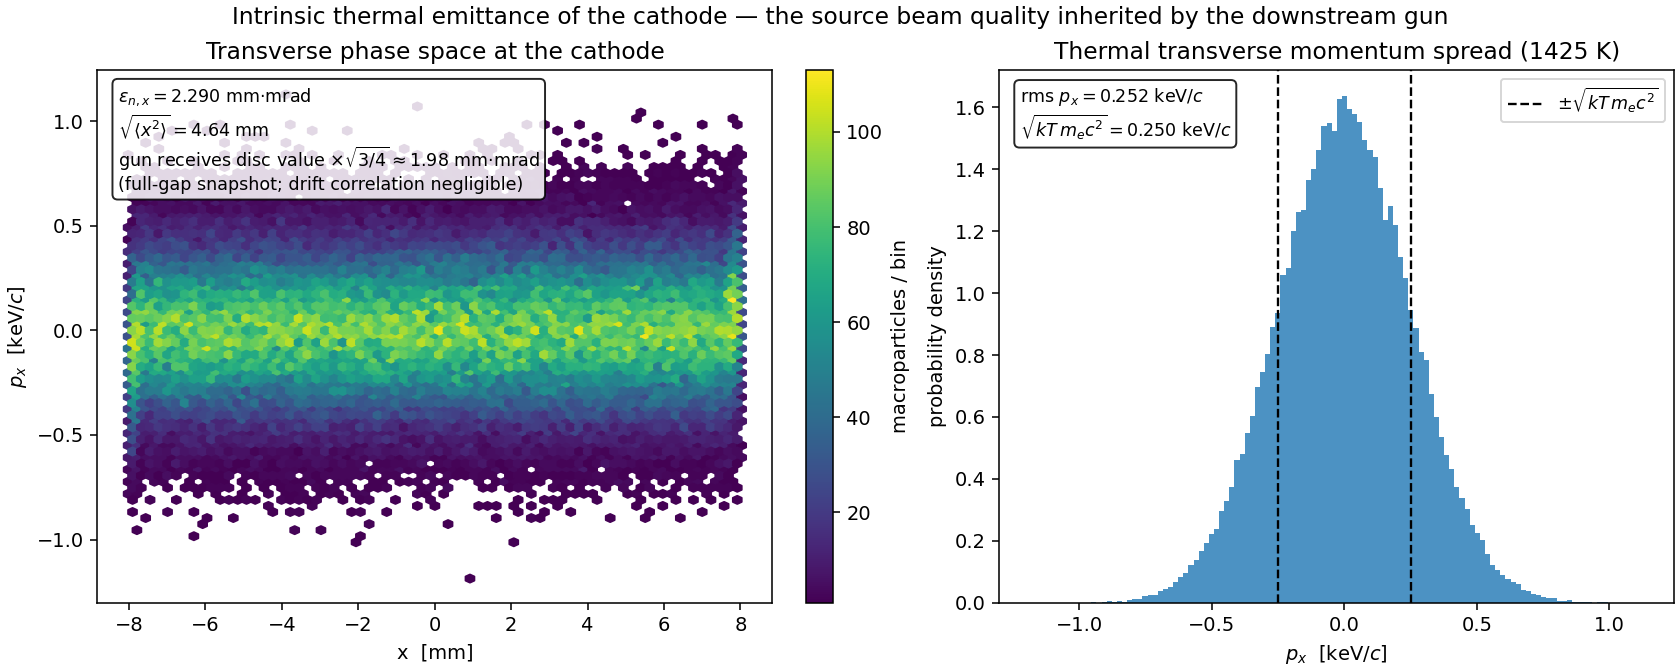
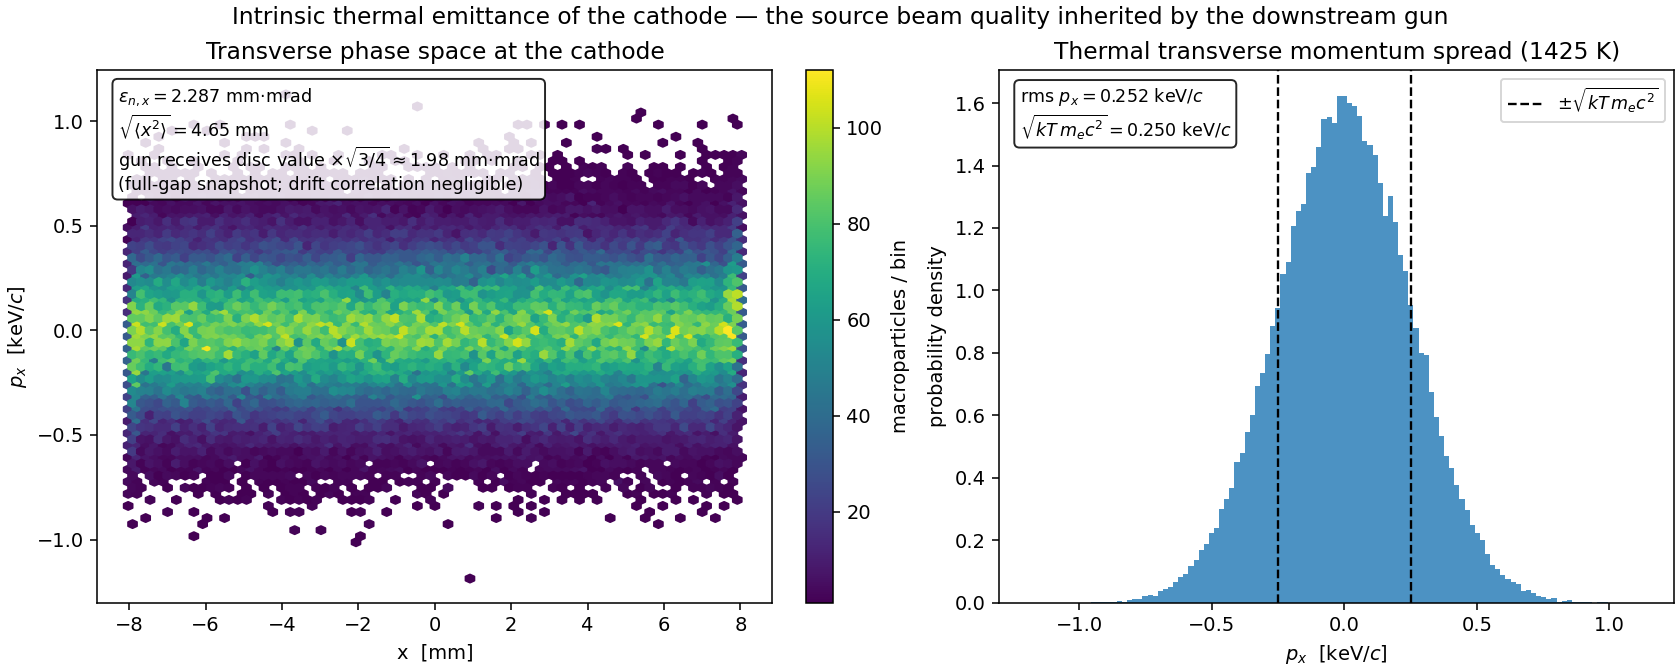
cathode: sync docs + figures to the 30 V gap-voltage operating point
The diode bias is V_anode = 30 V (already in code) = Voff + Vpulse = -30 + 60 V, the
peak grid potential of LinacSim's pulse model (cathode_master.in: Vpulse=60 swing,
Voff=-30 off-bias); the old 60 V wrongly used the swing as the absolute bias. Update
the README parameter table + rationale and regenerate the figures: J_CL = 9.59e3 A/m2
(was 2.71e4 at 60 V; scales as V^1.5), 2*J_CL = 1.92e4, plateau ~121% of J_CL.

diff --git a/cathode/README.md b/cathode/README.md
@@ -71,7 +71,7 @@ we do not impose the answer.
 ## What the simulation does (`cathode_diode.py`)
 
 - **Geometry**: 2D x–z, cathode plane at `z = 0` held at 0 V, anode at `z = d = 0.2 mm`
-  (200 µm) held at `+60 V`. Electrons are emitted only from the finite cathode patch
+  (200 µm) held at `+30 V`. Electrons are emitted only from the finite cathode patch
   `|x| < 8 mm` (the `lower_bound`/`upper_bound` of the flux distribution).
 - **Emission**: continuous flux injection (PICMI `UniformFluxDistribution`) at `2 × J_CL`,
   with a small thermal velocity spread set by a 1425 K cathode and a half-Maxwellian
@@ -86,20 +86,26 @@ we do not impose the answer.
 
 | Parameter | Value |
 |-----------|-------|
-| Anode bias `V` | 60 V |
+| Anode bias `V` | 30 V (peak grid potential = `Voff` + `Vpulse`) |
 | Gap `d` | 0.2 mm (200 µm) |
 | Cathode width `2R` | 16 mm (80× the gap → 1D limit on axis) |
 | Cathode temperature | 1425 K |
-| Injected current | 2 × J_CL ≈ 5.42 × 10⁴ A/m² |
-| Child–Langmuir J_CL | ≈ 2.71 × 10⁴ A/m² |
+| Injected current | 2 × J_CL ≈ 1.92 × 10⁴ A/m² |
+| Child–Langmuir J_CL | ≈ 9.59 × 10³ A/m² |
 | Grid | 128 × 64 cells (x, z), domain ±16 mm × 0.2 mm |
 | Steps | 2000 (gap-fill ≈ 480 steps) |
 
 These parameters now match Adam's Region-1 cathode geometry from the original LinacSim inputs
-(`reference/Linac Simulation Documentation/input_files/`): cathode diameter 16 mm, cathode–grid
-distance 0.2 mm, cathode temperature 1425 K, and the 60 V pulse voltage (`Vpulse`). The 16 mm /
-0.2 mm geometry still sits deep in the 1D limit (80× the gap) so the on-axis result recovers planar
-Child–Langmuir. It remains a **DC** 2D demo — the grid voltage pulsing is not modelled.
+(`reference/Linac Simulation Documentation/input_files/cathode_master.in`): cathode diameter 16 mm,
+cathode–grid distance 0.2 mm, and cathode temperature 1425 K. The 16 mm / 0.2 mm geometry sits deep
+in the 1D limit (80× the gap) so the on-axis result recovers planar Child–Langmuir. It remains a
+**DC** 2D demo — the grid voltage pulsing is not modelled.
+
+**Gap voltage = 30 V, not `Vpulse` = 60 V.** LinacSim drives the grid with a *pulse*
+`V(t) = Voff + Vpulse·f(t)` (`details.md` voltage-pulse model), where `Voff = −30 V` is the
+off-bias and `Vpulse = 60 V` is the peak *swing*. The pulse shape `f` peaks at 1, so the actual
+peak cathode→grid potential difference is `Voff + Vpulse = −30 + 60 = +30 V`. This DC demo uses
+that peak (`V_anode = 30 V`); `Vpulse` alone (60 V) is the swing amplitude, not the absolute bias.
 
 ---
 
